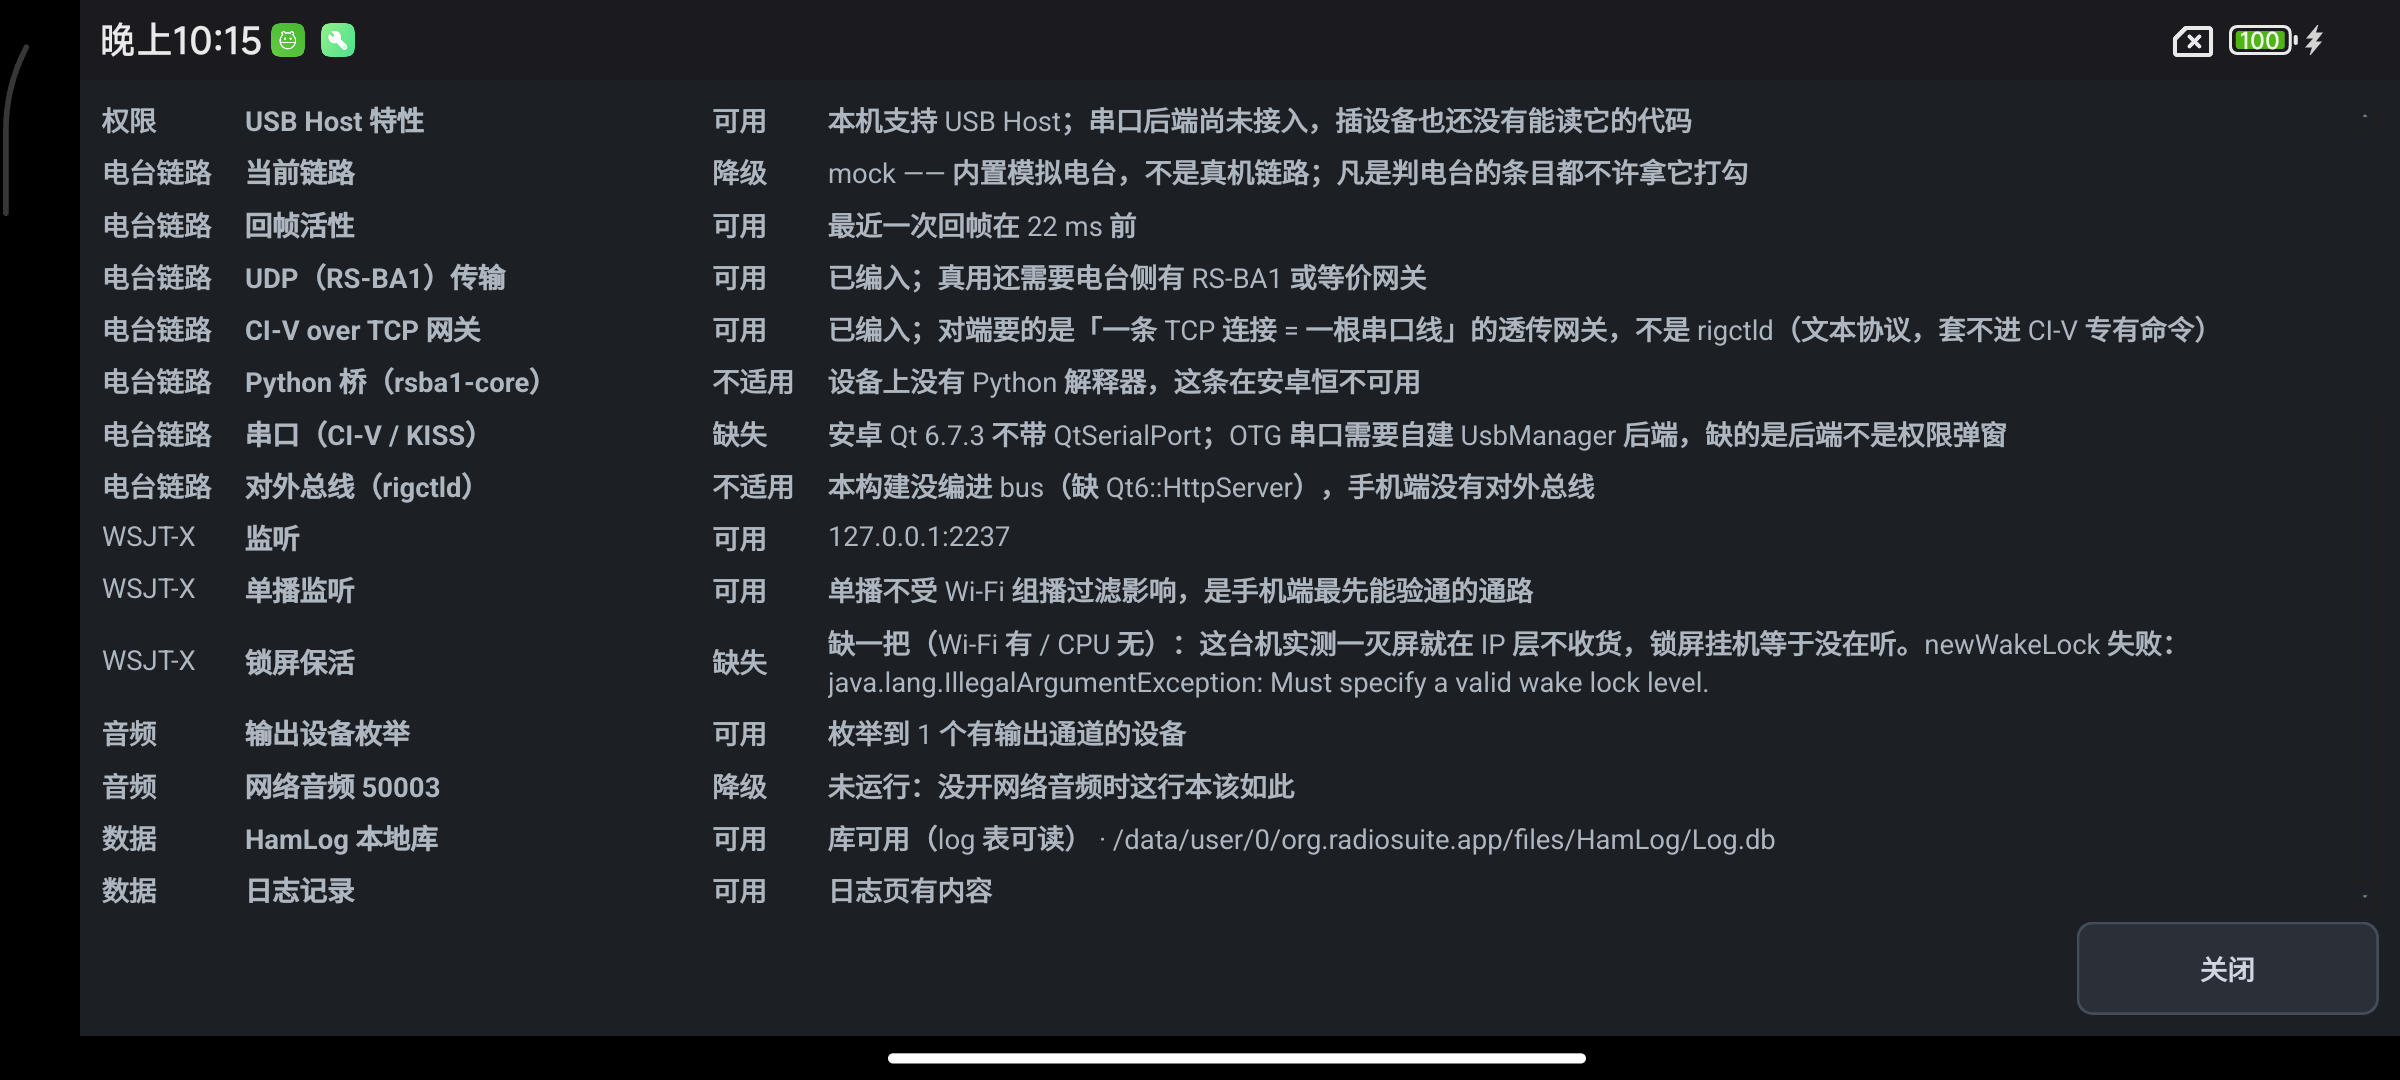
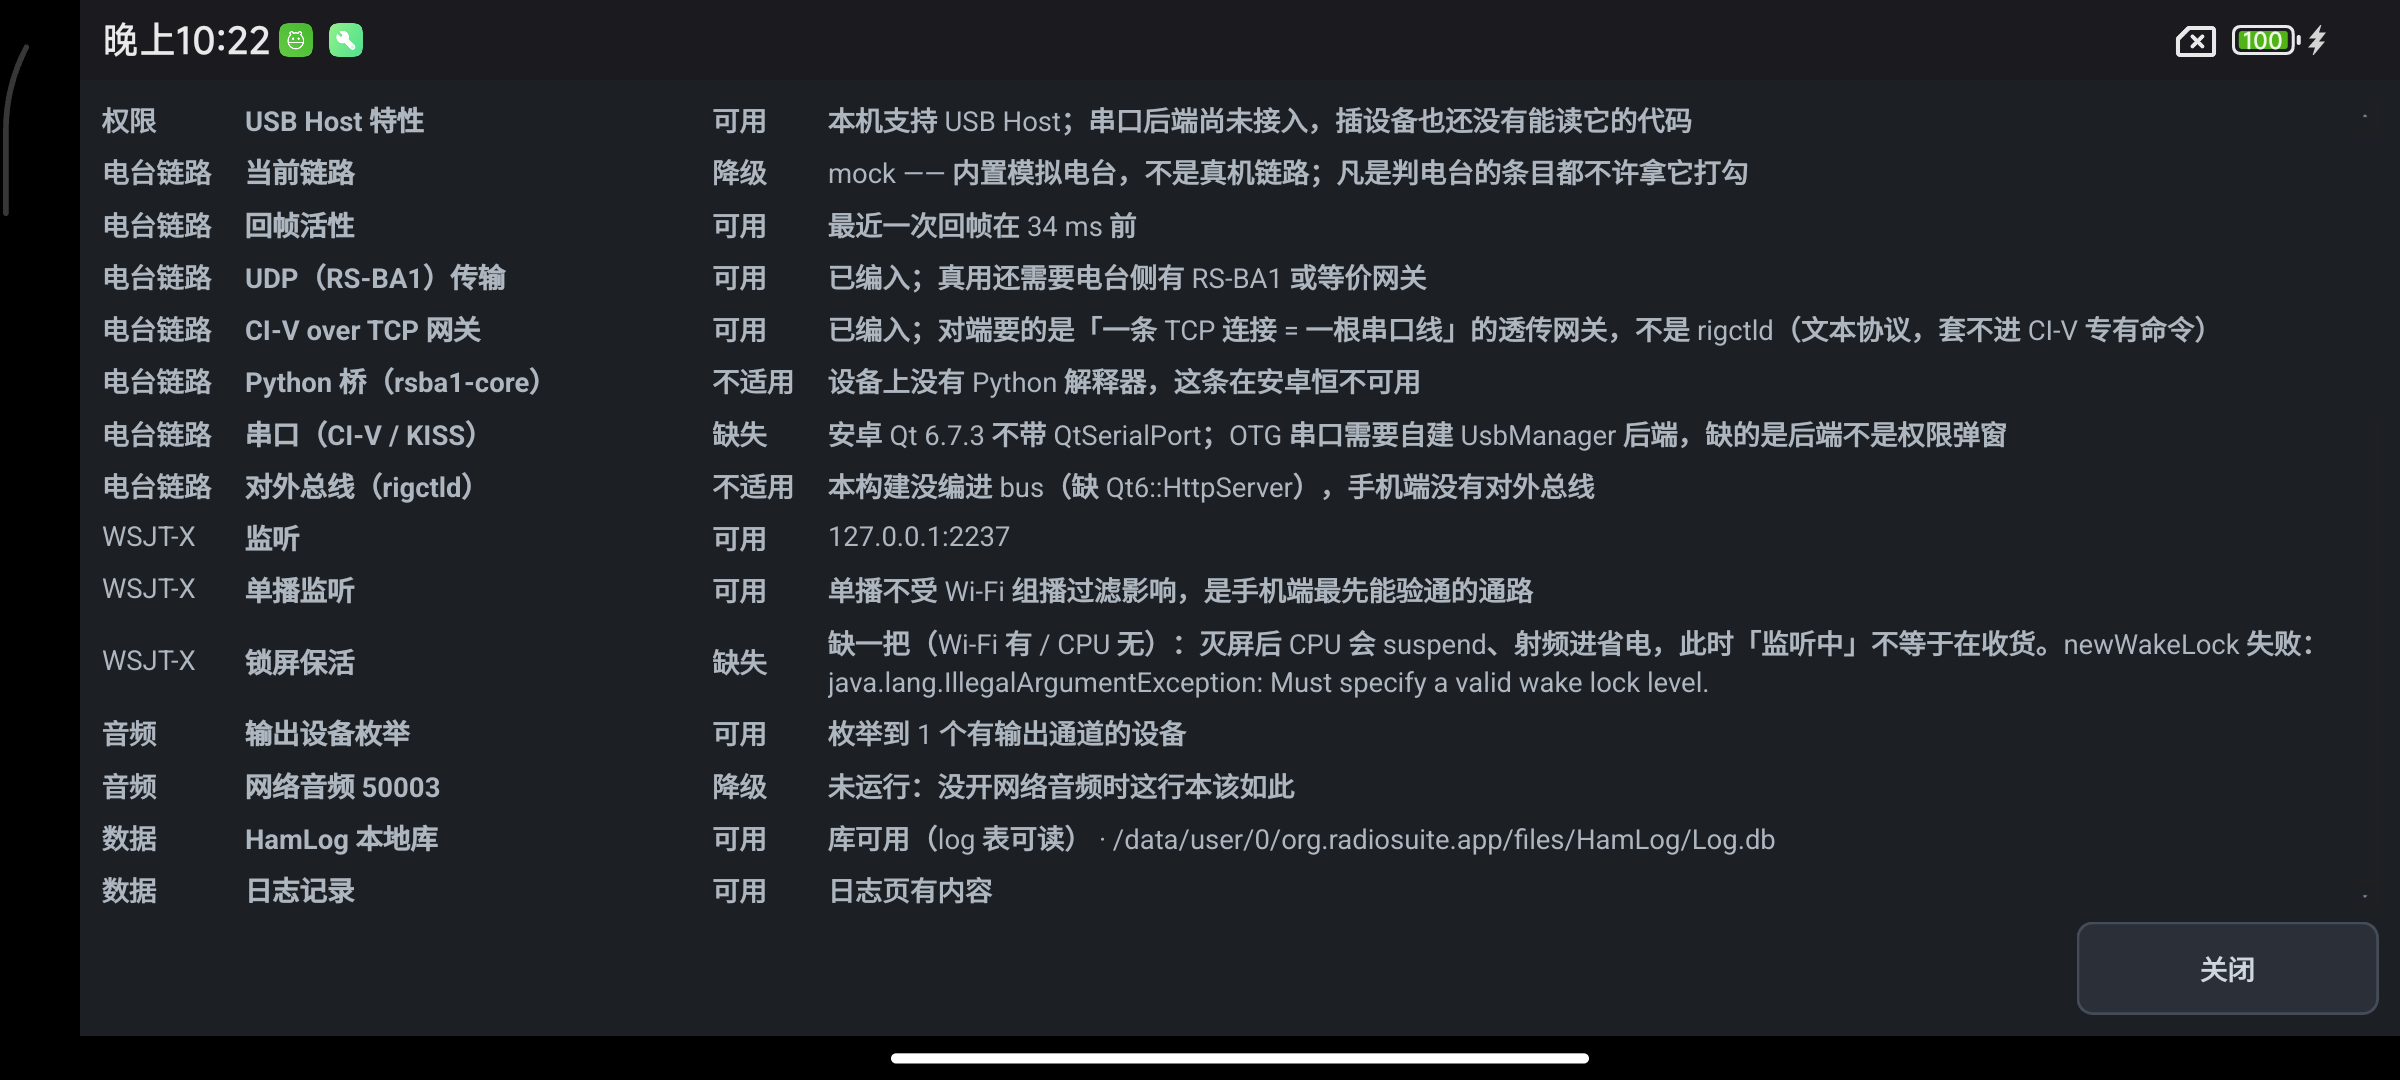
fix(report): 台账保活文案不再替未做的实验签字，也不再写设备专属结论
两处都是我自己刚写进去的问题，只有真机读台账时才看得见：

- OK 分支原文「两把都在，灭屏仍收」：两把锁在手推不出灭屏收得到包，那一半恰恰是 N4
  还没量的东西。UI 于是替一个未做的实验签了绿灯。改成只报锁的状态，并明写
  「不等于已经验到灭屏真收到包」。
- 缺失分支原文「这台机实测一灭屏就在 IP 层不收货」：把 M2012K11AC 的测量结论硬编进
  所有安卓设备都会跑的运行时字符串，在拿得到 wake lock 的机器上直接变成谎。
  改成通用机制（CPU 会 suspend、射频进省电）再拼设备自己报的原因。

护栏是两条反向断言：CHECK_FALSE(note 含「仍收」)、CHECK_FALSE(note 含「这台机」)。
变异对照：把旧文案改回去 ⇒ #260 FAIL（test_device_report.cpp:241）；改回后 263/263。
真机复验：包 9588b659…（装后回拉 BYTE_MATCH=YES），台账打印新文案 + Java 逐字原因。

Changed region(s): [[0.5, 0.5806, 0.9688, 0.6111], [0.0312, 0.0, 0.1562, 0.0611], [0.9062, 0.0306, 0.9688, 0.0611]]

diff --git a/apps/desktop/app/device_report.cpp b/apps/desktop/app/device_report.cpp
@@ -179,10 +179,11 @@ QVector<ReportRow> buildDeviceReport(const ReportInput& in) {
       rows << makeRow("WSJT-X", "锁屏保活",
                       both ? ProbeState::Ok : ProbeState::Missing,
                       both ? QStringLiteral(
-                                 "WifiLock(HIGH_PERF) + PARTIAL_WAKE_LOCK 都在，灭屏仍收")
+                                 "两把都在：射频不进省电轮询、CPU 不 suspend。"
+                                 "这只说明保活开着，不等于已经验到灭屏真收到包")
                            : QStringLiteral(
-                                 "缺一把（Wi-Fi %1 / CPU %2）：这台机实测一灭屏就在 IP 层"
-                                 "不收货，锁屏挂机等于没在听。%3")
+                                 "缺一把（Wi-Fi %1 / CPU %2）：灭屏后 CPU 会 suspend、"
+                                 "射频进省电，此时「监听中」不等于在收货。%3")
                                .arg(in.wifi_lock_held ? QStringLiteral("有")
                                                       : QStringLiteral("无"),
                                     in.wake_lock_held ? QStringLiteral("有")

diff --git a/tests/test_device_report.cpp b/tests/test_device_report.cpp
@@ -235,7 +235,11 @@ TEST_CASE("device report: android keep-alive needs BOTH locks and says which is 
   const auto* ok = rowOf(good, QStringLiteral("锁屏保活"));
   REQUIRE(ok != nullptr);
   CHECK(ok->state == radio::app::ProbeState::Ok);
-  CHECK(ok->note.contains(QStringLiteral("灭屏仍收")));
+  CHECK(ok->note.contains(QStringLiteral("两把都在")));
+  // 绿灯只许报「锁在手」，不许替用户断言「灭屏收到了包」——那一半要靠实测，
+  // 拿持有锁当收货证据就是这行文案最初的说法，改回来就靠这条拦住。
+  CHECK_FALSE(ok->note.contains(QStringLiteral("仍收")));
+  CHECK_FALSE(ok->note.contains(QStringLiteral("这台机")));
 
   // 只有 WifiLock：包到得了内核，但 CPU 一suspend 就没人读 —— 症状是「收得到却不显示」
   auto wifi_only = androidInput();

diff --git a/evidence/2026-11-16-android-keepalive/README.md b/evidence/2026-11-16-android-keepalive/README.md
@@ -27,7 +27,7 @@
 
 没有拿 `level=1` 去凑：`1` 不是公开常量，凑上只在这台机成立，那是把 ROM 私有行为写进产品代码。
 
-## 两条能复用的坑
+## 三条能复用的坑
 
 **① JNI 签名的返回类型要照设备 dex 抄，不能照类名印象写。**
 `createWifiLock` 返回 `Landroid/net/wifi/WifiManager$WifiLock;`（嵌套类，
@@ -44,6 +44,16 @@
 更糟的是 `acquire()` 抛异常会被当成成功、把 `*_held_` 置真，**报「已持有」而实际没持有**。
 现在 create/acquire 全走 `JNIEnv` 直调，异常自己接、`toString` 进台账。
 
+**③ 运行时文案里不许写「只在这台机上量到过」的结论，更不许把「机制已就位」写成「结果已验证」。**
+初版 OK 分支是 `WifiLock(HIGH_PERF) + PARTIAL_WAKE_LOCK 都在，灭屏仍收`——两把锁在手
+**推不出**灭屏收得到包，那一半恰恰是本条还没测的东西；拿它当绿灯，UI 就会替一个未做的实验签字。
+缺失分支写的是 `这台机实测一灭屏就在 IP 层不收货`，把 M2012K11AC 的测量结论硬编进
+**所有**安卓设备都会跑的字符串，在能拿到 wake lock 的机器上直接变成谎。
+现在：OK 只报锁的状态并明写「不等于已经验到灭屏真收到包」，缺失只讲通用机制
+（CPU 会 suspend、射频进省电）再拼上设备自己报的原因。
+护栏是两条反向断言（`CHECK_FALSE` 含「仍收」/含「这台机」），
+变异对照过：把旧文案改回去 ⇒ `#260` FAIL（`test_device_report.cpp:241`）。
+
 ## 操作上的两个自坑（不是产品缺陷）
 
 - 「开始监听」点下去 2 秒后自停、锁被释放：真实原因是设置保存时面板**已经自动重启监听**，
@@ -55,12 +65,13 @@
 
 ## 包身份
 
-本轮三次装包，每次 `pm path` → `adb pull` → `sha256sum` 与构建产物比对，三次 `BYTE_MATCH=YES`：
+本轮四次装包，每次 `pm path` → `adb pull` → `sha256sum` 与构建产物比对，四次 `BYTE_MATCH=YES`：
 
 ```
 26797284…  初版（JNI 签名错，装机后 logcat 抓到 NoSuchMethodError）
 f3265c3a…  签名修对（但异常被 Qt 吞，台账原因失真）
-ab88a233…  本版：自己接异常，台账给出 Java 原话  ← 本目录读数出自这一版
+ab88a233…  自己接异常，台账给出 Java 原话（但文案把设备专属结论硬编进了通用字符串）
+9588b659…  本版：文案不绑设备 + 反向护栏  ← 本目录读数出自这一版
 ```
 
 ⚠ `apksigner verify --print-certs` 回显的 `fb5b773a…` 是**证书摘要**，每次签名都一样，
